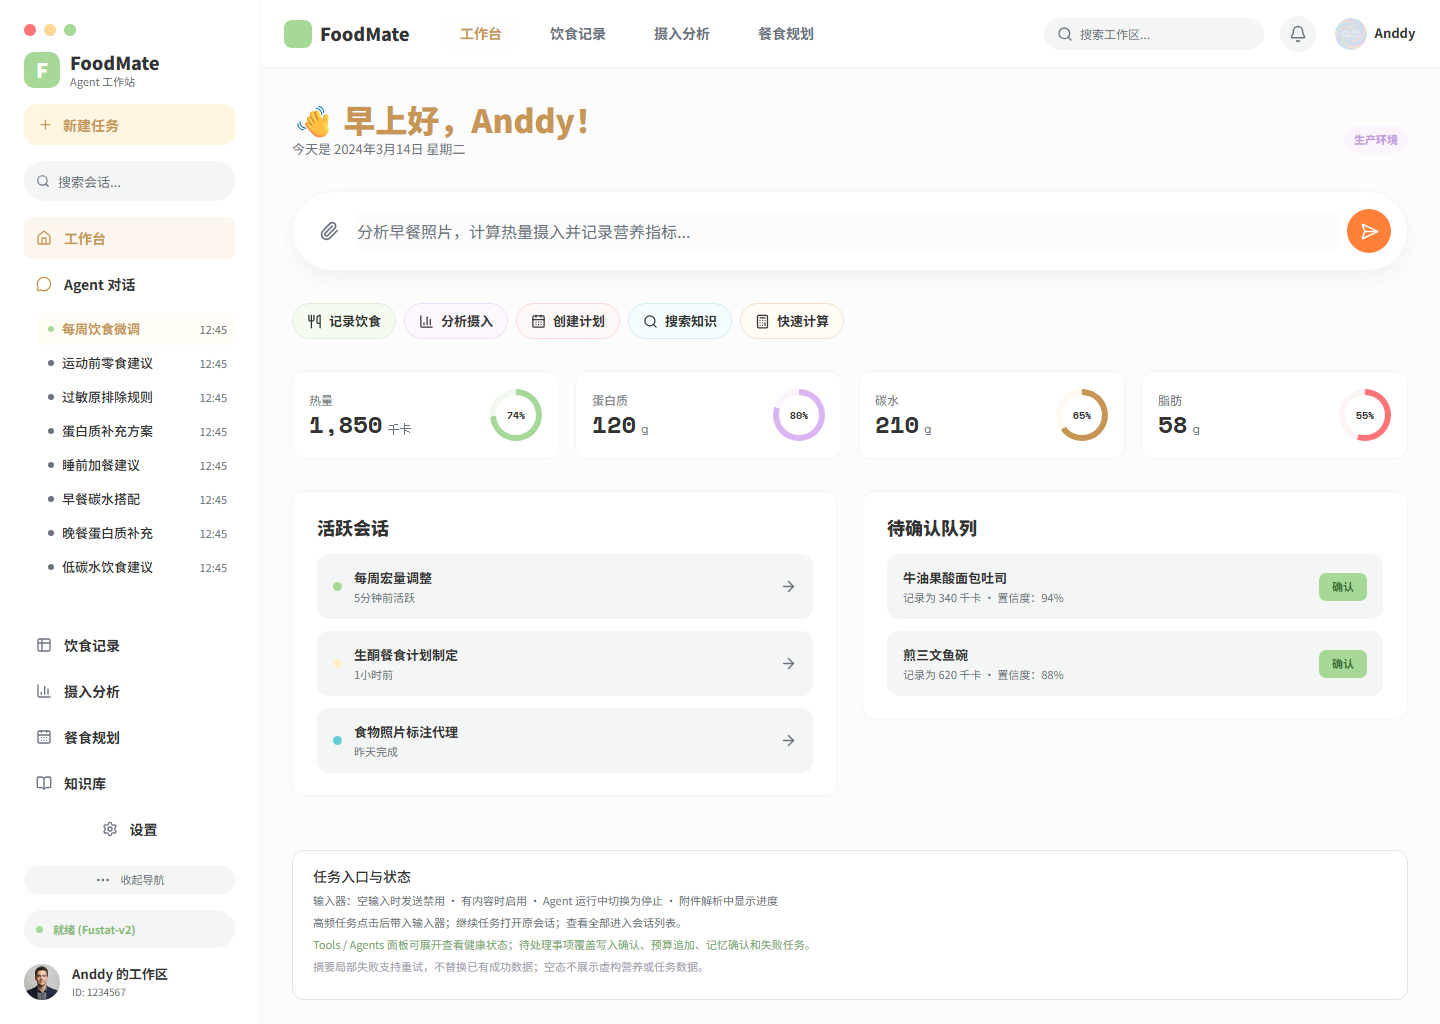
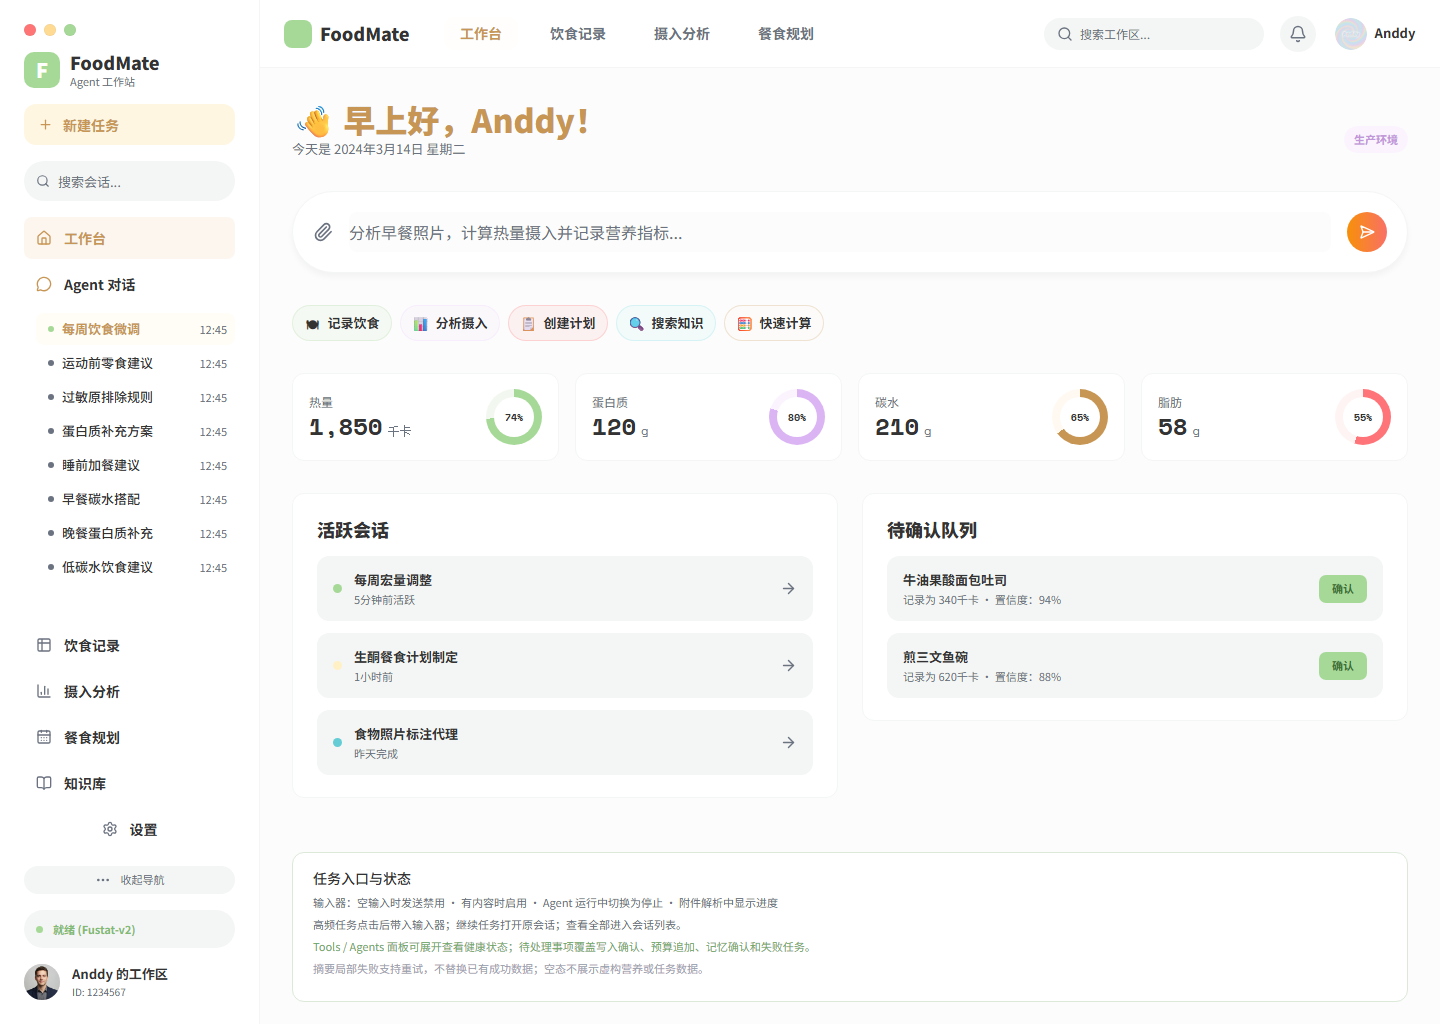
feat(ui): 收口工作区首页与 Agent 对话视觉

diff --git a/foodmate-ui/src/pages/HomePage/HomePage.tsx b/foodmate-ui/src/pages/HomePage/HomePage.tsx
@@ -33,9 +33,16 @@ const pendingItems = [
     id: 'beef',
     title: '牛油果酸面包吐司',
     detail: '记录为 340 千卡 · 置信度：94%',
+    figmaDetail: '记录为 340千卡 · 置信度：94%',
     prompt: '确认记录牛油果酸面包吐司',
   },
-  { id: 'fish', title: '煎三文鱼碗', detail: '记录为 620 千卡 · 置信度：88%', prompt: '确认记录煎三文鱼碗' },
+  {
+    id: 'fish',
+    title: '煎三文鱼碗',
+    detail: '记录为 620 千卡 · 置信度：88%',
+    figmaDetail: '记录为 620千卡 · 置信度：88%',
+    prompt: '确认记录煎三文鱼碗',
+  },
 ];
 
 const figmaSidebarSessions: SessionSummary[] = [
@@ -137,24 +144,27 @@ export function HomePage() {
 
   const quickActions = useMemo(
     () => [
-      { label: '记录饮食', prompt: recommendedPrompts[0], icon: Utensils, tone: 'green' },
+      { label: '记录饮食', prompt: recommendedPrompts[0], icon: Utensils, figmaIcon: '🍽', tone: 'green' },
       {
         label: '分析摄入',
         prompt: taskCards.find((task) => task.id === 'analysis')?.prompt ?? recommendedPrompts[2],
         icon: BarChart3,
+        figmaIcon: '📊',
         tone: 'purple',
       },
       {
         label: '创建计划',
         prompt: taskCards.find((task) => task.id === 'planning')?.prompt ?? recommendedPrompts[1],
         icon: CalendarDays,
+        figmaIcon: '📋',
         tone: 'red',
       },
-      { label: '搜索知识', prompt: recommendedPrompts[3], icon: Search, tone: 'blue' },
+      { label: '搜索知识', prompt: recommendedPrompts[3], icon: Search, figmaIcon: '🔍', tone: 'blue' },
       {
         label: '快速计算',
         prompt: taskCards.find((task) => task.id === 'calorie')?.prompt ?? '计算这份食物的热量',
         icon: Calculator,
+        figmaIcon: '🧮',
         tone: 'orange',
       },
     ],
@@ -183,7 +193,7 @@ export function HomePage() {
       showKnowledgeTopNav={!isFigmaFixture}
       sidebarFixture={isFigmaFixture ? { sessions: figmaSidebarSessions } : undefined}
     >
-      <div className={`${styles.page} fm-enter`}>
+      <div className={`${styles.page} ${isFigmaFixture ? styles.figmaHomePage : ''} fm-enter`}>
         <section className={styles.intro}>
           <div>
             <h1>👋 早上好，{isFigmaFixture ? 'Anddy' : currentUser.displayName}！</h1>
@@ -246,14 +256,20 @@ export function HomePage() {
         ) : (
           <>
             <section className={styles.quickActions} aria-label="快速操作">
-              {quickActions.map(({ icon: Icon, label, prompt: actionPrompt, tone }) => (
+              {quickActions.map(({ icon: Icon, figmaIcon, label, prompt: actionPrompt, tone }) => (
                 <Button
                   className={`${styles.quickButton} ${styles[`quick${tone[0].toUpperCase()}${tone.slice(1)}`]}`}
                   key={label}
                   variant="outline"
                   onClick={() => setPrompt(actionPrompt)}
                 >
-                  <Icon aria-hidden="true" />
+                  {isFigmaFixture ? (
+                    <span className={styles.quickEmoji} aria-hidden="true">
+                      {figmaIcon}
+                    </span>
+                  ) : (
+                    <Icon aria-hidden="true" />
+                  )}
                   <span>{label}</span>
                 </Button>
               ))}
@@ -317,7 +333,7 @@ export function HomePage() {
                       >
                         <span>
                           <strong>{item.title}</strong>
-                          <small>{confirmed ? '已提交确认' : item.detail}</small>
+                          <small>{confirmed ? '已提交确认' : isFigmaFixture ? item.figmaDetail : item.detail}</small>
                         </span>
                         <Button
                           className={styles.confirmButton}

diff --git a/foodmate-ui/src/pages/HomePage/HomePage.module.css b/foodmate-ui/src/pages/HomePage/HomePage.module.css
@@ -6,6 +6,93 @@
   background: var(--fm-bg);
 }
 
+/* Home Figma fixture 的内部尺寸只作用于设计稿复核，不改变真实首页的交互尺寸。 */
+.figmaHomePage .taskComposer {
+  grid-template-columns: 20px minmax(0, 1fr) 40px;
+  gap: 16px;
+  padding: 20px;
+  border-radius: 100px;
+  box-shadow: 0 4px 6px rgba(0, 0, 0, 0.04);
+}
+
+.figmaHomePage .attachmentButton {
+  width: 20px;
+  height: 20px;
+  min-width: 20px;
+  min-height: 20px;
+  padding: 0;
+}
+
+.figmaHomePage .sendButton {
+  width: 40px;
+  height: 40px;
+  min-width: 40px;
+  min-height: 40px;
+  background: linear-gradient(90deg, #f79009, #f97066);
+}
+
+.figmaHomePage .sendButton:hover,
+.figmaHomePage .sendButton:disabled {
+  background: linear-gradient(90deg, #f79009, #f97066);
+}
+
+.figmaHomePage .sendButton svg {
+  width: 16px;
+  height: 16px;
+}
+
+.figmaHomePage .quickButton {
+  width: 100px;
+  min-width: 100px;
+  justify-content: center;
+  padding-inline: 0;
+}
+
+.figmaHomePage .quickGreen {
+  border-color: rgba(166, 217, 151, 0.25);
+  background: rgba(166, 217, 151, 0.08);
+}
+
+.figmaHomePage .quickPurple {
+  border-color: rgba(236, 204, 255, 0.25);
+  background: rgba(236, 204, 255, 0.08);
+}
+
+.figmaHomePage .quickRed {
+  border-color: rgba(255, 117, 118, 0.25);
+  background: rgba(255, 117, 118, 0.08);
+}
+
+.figmaHomePage .quickBlue {
+  border-color: rgba(128, 224, 230, 0.25);
+  background: rgba(128, 224, 230, 0.08);
+}
+
+.figmaHomePage .quickOrange {
+  border-color: rgba(199, 150, 84, 0.25);
+  background: rgba(255, 246, 226, 0.08);
+}
+
+.quickEmoji {
+  display: inline-flex;
+  width: 16px;
+  height: 16px;
+  align-items: center;
+  justify-content: center;
+  font-family: var(--fm-font);
+  font-size: 14px;
+  line-height: 1;
+}
+
+.figmaHomePage .progress {
+  width: 56px;
+  height: 56px;
+}
+
+.figmaHomePage .progress::after {
+  inset: 8px;
+}
+
 .intro {
   display: flex;
   min-height: 59px;

diff --git a/foodmate-ui/src/pages/ChatPage/ChatPage.test.tsx b/foodmate-ui/src/pages/ChatPage/ChatPage.test.tsx
@@ -158,19 +158,12 @@ describe('ChatPage Figma 默认状态', () => {
     expect(composerStylesheet).toContain('background: var(--fm-fixture-composer-input-surface, var(--fm-bg-soft));');
   });
 
-  it('keeps the Figma default message action guidance under the assistant answer', () => {
+  it('renders the Figma message action guidance in the default canvas', () => {
     renderChatState('figma-v2');
 
     expect(screen.getByRole('region', { name: '消息操作' })).toBeInTheDocument();
-    expect(
-      screen.getByText((content) => content.includes('用户消息：编辑') && content.includes('重试')),
-    ).toBeInTheDocument();
-    expect(
-      screen.getByText((content) => content.includes('Agent 回答：复制') && content.includes('继续提问')),
-    ).toBeInTheDocument();
-    expect(
-      screen.getByText((content) => content.includes('右侧面板：运行') && content.includes('原始 JSON')),
-    ).toBeInTheDocument();
+    expect(screen.getByText(/用户消息：编辑/)).toBeInTheDocument();
+    expect(screen.getByText(/右侧面板：运行/)).toBeInTheDocument();
   });
 });
 

diff --git a/foodmate-ui/src/pages/ChatPage/ChatPage.module.css b/foodmate-ui/src/pages/ChatPage/ChatPage.module.css
@@ -859,6 +859,7 @@
   margin-left: 48px;
 }
 
+/* Figma 640:428 的默认画板包含消息操作说明，仅用于可复现的设计 fixture。 */
 .messageActions {
   display: flex;
   width: min(796px, 100%);
@@ -1165,25 +1166,6 @@
     min-height: 142px;
   }
 
-  .messageActions {
-    width: 100%;
-    height: auto;
-    min-height: 150px;
-    overflow: visible;
-  }
-
-  .messageActions p {
-    height: auto;
-    min-height: 18px;
-    flex: 0 0 auto;
-    white-space: normal;
-  }
-
-  .messageActions h2 {
-    height: auto;
-    flex: 0 0 auto;
-  }
-
   .cardWrap {
     width: calc(100% - 48px);
   }
@@ -1204,6 +1186,25 @@
   .inlineConfirmation {
     height: auto;
     min-height: 142px;
+  }
+
+  .messageActions {
+    width: 100%;
+    height: auto;
+    min-height: 150px;
+    overflow: visible;
+  }
+
+  .messageActions p {
+    height: auto;
+    min-height: 18px;
+    flex: 0 0 auto;
+    white-space: normal;
+  }
+
+  .messageActions h2 {
+    height: auto;
+    flex: 0 0 auto;
   }
 }
 

diff --git a/foodmate-ui/src/pages/HomePage/HomePage.test.tsx b/foodmate-ui/src/pages/HomePage/HomePage.test.tsx
@@ -50,6 +50,9 @@ describe('HomePage session cards', () => {
       'src',
       '/assets/figma/workspace/home-topbar-avatar.png',
     );
+    const quickAction = screen.getByRole('button', { name: '记录饮食' });
+    expect(within(quickAction).getByText('🍽')).toBeInTheDocument();
+    expect(quickAction.querySelector('svg')).not.toBeInTheDocument();
     expect(
       within(screen.getByRole('navigation', { name: '主导航' })).queryByRole('link', { name: '知识库' }),
     ).toBeNull();

diff --git a/foodmate-ui/src/pages/ChatPage/ChatPage.tsx b/foodmate-ui/src/pages/ChatPage/ChatPage.tsx
@@ -2080,6 +2080,7 @@ function MockChatPage() {
       ) : null}
       {agent.card.type === 'confirmation' ? null : null}
       {agent.card.type === 'error' ? <ErrorState message={agent.card.message} /> : null}
+      {/* Figma 640:428 的说明面板属于默认画板内容，只在 fixture 中复现。 */}
       {isFigmaFixture ? (
         <section className={styles.messageActions} aria-label="消息操作">
           <h2>消息操作</h2>

diff --git a/docxs/功能实现说明/前端已完成实现清单.md b/docxs/功能实现说明/前端已完成实现清单.md
@@ -4,7 +4,7 @@
 > 本文只记录真实代码、真实测试和实际浏览器检查结果，不把 Figma 目标稿、后端目标接口或未完成的全量迁移写成已完成。
 > “页面代码边界完成”表示该页面的代码、交互和本地验收已完成；不等同于真实后端接口、Figma 实际画板和整个 G 阶段全部完成。
 
-> 当前状态（2026-09-05）：页面代码和本地视觉/交互验收不等于完整生产完成。后端已实现 `food_logs` 明细创建/查询/编辑/删除/恢复、today/7d/30d 分析、60 条营养食材 seed 和 60 条官方 foodPortions 换算规则的 matched/pending 分支、餐食计划完整资源生命周期和 `meal_plan.save_plan` 确认；`food_log_writer` 的 create/update/delete/restore 及 rejected/failed/superseded、revision 冲突和幂等重放已通过真实 PostgreSQL HTTP/RocketMQ 各 11/11 跨进程回归。M2-1 公共知识库、M2-2 deterministic Tool/SQL 和 M2-3 管理核心切片已有业务证据；真实云服务、性能和故障矩阵仍后置。当前前端全量 Vitest 为 39/39 个测试文件、245/245 个用例通过，typecheck、build、lint 和 format:check 通过；Auth 页面已有提交 `bc72ae10`，本轮 Auth 状态视觉收口已完成，Workspace/Home 与 Agent Chat 的当前视觉收口已完成代码边界，相关 Figma 证据仍保持 `DIFF_REVIEW`。不得把本清单的页面完成项改写为生产级完成。
+> 当前状态（2026-09-05）：页面代码和本地视觉/交互验收不等于完整生产完成。后端已实现 `food_logs` 明细创建/查询/编辑/删除/恢复、today/7d/30d 分析、60 条营养食材 seed 和 60 条官方 foodPortions 换算规则的 matched/pending 分支、餐食计划完整资源生命周期和 `meal_plan.save_plan` 确认；`food_log_writer` 的 create/update/delete/restore 及 rejected/failed/superseded、revision 冲突和幂等重放已通过真实 PostgreSQL HTTP/RocketMQ 各 11/11 跨进程回归。M2-1 公共知识库、M2-2 deterministic Tool/SQL 和 M2-3 管理核心切片已有业务证据；真实云服务、性能和故障矩阵仍后置。当前前端全量 Vitest 为 39/39 个测试文件、247/247 个用例通过，typecheck、build、lint 和 format:check 通过；Auth 页面已有提交 `bc72ae10`，Workspace/Home 与 Agent Chat 的当前视觉收口已完成代码边界，最新 Figma 证据仍保持 `DIFF_REVIEW`。不得把本清单的页面完成项改写为生产级完成。
 
 ## 1. 文档信息
 
@@ -1804,3 +1804,15 @@
 - [x] 本批次集中执行 `npm run test`，结果为 `39/39` 个测试文件、`247/247` 个用例通过；`npm run typecheck`、`npm run build`、`npm run lint`、`npm run format:check`、`npm run qa:figma:validate` 和 `git diff --check` 均通过。
 - [x] 当前 Figma 验收结构结果为 `total=105`、`structuralPass=true`、`strictDprPass=true`、`errors=[]`；105 个画板均有自动比较输入，无 `UNMAPPED` 和 `SIZE_MISMATCH`。
 - [ ] 六个 Admin 目标画板仍存在非零自动 diff，当前结论保持 `DIFF_REVIEW`；本大点不把结构门禁、构建通过或截图存在替代像素级 `PASS`。shadcn 全量逐页迁移仍未完成，iconfont 实体包、CSS 映射、来源和许可证仍缺失，继续为 `BLOCKED`。
+
+## 209. 2026-09-05 Workspace Home 与 Agent Chat 当前 Figma 证据校正
+
+本大点在实时重新读取 Figma 节点 `640:256` 和 `640:428` 后，校正 Workspace Home 与 Agent Chat 的 fixture 内容及主验收参考图。Figma 文件保持只读；本次不吸收后端、Admin 或本地 SQL 并行改动。
+
+- [x] Home fixture 的快捷操作、输入框、发送按钮、指标进度环和待确认队列文案继续按 `640:256` 的颜色、尺寸和内容收口，调整均限制在 `state=figma-v2`。
+- [x] Chat fixture 已确认实时画板包含 `983:3 agent::message-actions` 说明面板，已恢复对应的面板结构、文案、边框、间距和移动端适配；真实模式消息、确认、预算和 SSE 逻辑不受影响。
+- [x] 主映射已将 `agent-chat-v2` 的 Figma PNG 切换为 `foodmate-ui/.qa/figma-pixel-acceptance/recaptured-figma/agent-chat-v2-figma-2026-09-05.png`，不再使用缺少说明面板的历史参考图；历史 PNG 保留，不覆盖或删除。
+- [x] Home 与 Chat 均已在 Chrome `152.0.7977.77`、`1440×1024`、DPR `1`、字体 `loaded` 和无横向溢出条件下重新采集；对应浏览器证据为 `dpr1-workspace-home-v2-browser-2026-09-05.png` 和 `dpr1-agent-chat-v2-browser-2026-09-05.png`。
+- [x] 同版本自动 diff：Workspace Home 为 `24.4219% / MAE 3.798675 / RMSE 19.280955 / maxChannelDelta 248`；Agent Chat 为 `11.7176% / MAE 2.906090 / RMSE 17.246569 / maxChannelDelta 211`。
+- [x] 本大点完成后集中执行 `npm run test`，结果为 `39/39` 个测试文件、`247/247` 个用例通过；`npm run typecheck`、`npm run build`、`npm run lint`、`npm run format:check`、`npm run qa:figma:validate` 和 `git diff --check` 均通过。
+- [ ] 两页自动 diff 仍为非零，结论继续保持 `DIFF_REVIEW`；105 张画板汇总仍为 `105 DIFF_REVIEW / 0 PASS / 0 UNMAPPED / 0 SIZE_MISMATCH`。这次校正不关闭 shadcn 全量逐页视觉迁移或 iconfont 阻塞，iconfont 继续为 `BLOCKED`。

diff --git a/docxs/功能实现说明/Figma前端像素级验收报告.md b/docxs/功能实现说明/Figma前端像素级验收报告.md
@@ -49,8 +49,8 @@
 
 | 页面/状态 | Figma 节点 | 尺寸 | 差异比例 | RMSE | 结论 |
 |---|---|---:|---:|---:|---|
-| Workspace Home | `640:256` | 1440×1024 | 37.58% | 17.11 | `DIFF_REVIEW` |
-| Agent Chat | `640:428` | 1440×1024 | 40.60% | 20.51 | `DIFF_REVIEW` |
+| Workspace Home | `640:256` | 1440×1024 | 24.4219% | 19.28 | `DIFF_REVIEW` |
+| Agent Chat | `640:428` | 1440×1024 | 11.7176% | 17.25 | `DIFF_REVIEW` |
 | Diet Records | `640:588` | 1440×1024 | 37.94% | 17.38 | `DIFF_REVIEW` |
 | Intake Analysis | `640:773` | 1440×1024 | 28.07% | 18.50 | `DIFF_REVIEW` |
 | Meal Planning | `640:901` | 1440×1024 | 23.83% | 16.80 | `DIFF_REVIEW` |
@@ -1994,3 +1994,18 @@ Figma Design 页共有 105 张顶层画板。本轮已为 105 张画板建立独
 - [x] `figma-105-mapping.json`、`figma-105-diff-results.json` 已同步本批次主证据。`npm run qa:figma:validate` 返回 `structuralPass=true`、`strictDprPass=true`、`errors=[]`，全量汇总为 `105 DIFF_REVIEW / 0 PASS / 0 UNMAPPED / 0 SIZE_MISMATCH`。
 - [x] 本批次完成后集中执行 `npm run test`（`39/39` 文件、`247/247` 用例）、`npm run typecheck`、`npm run build`、`npm run lint`、`npm run format:check` 和 `git diff --check`，均通过。
 - [ ] 六个目标画板的自动 diff 均非零，人工复核结论继续保持 `DIFF_REVIEW`；本批次不宣称 Admin 或 105 张画板达到像素级 `PASS`。shadcn 全量逐页迁移尚未完成，iconfont 实体包、CSS 映射、来源和许可证仍缺失，继续保持 `BLOCKED`。
+
+## 23. 2026-09-05 Workspace Home 与 Agent Chat 当前 Figma 证据校正
+
+本节记录实时重新读取 Figma 节点 `640:256` 和 `640:428` 后的 Workspace Home 与 Agent Chat 当前证据。Figma 文件保持只读；旧版 PNG 保留为历史记录，不替代当前主映射。
+
+| 画板 | Figma 节点 | Figma PNG | 浏览器 PNG | 视口 / DPR | 差异比例 | MAE | RMSE | 最大通道差异 | 结论 |
+|---|---|---|---|---:|---:|---:|---:|---:|---|
+| Workspace Home | `640:256` | `recaptured-figma/workspace-home-v2-figma-2026-09-05.png` | `recaptured/dpr1-workspace-home-v2-browser-2026-09-05.png` | `1440×1024 / 1` | `24.4219%` | `3.798675` | `19.280955` | `248` | `DIFF_REVIEW` |
+| Agent Chat | `640:428` | `recaptured-figma/agent-chat-v2-figma-2026-09-05.png` | `recaptured/dpr1-agent-chat-v2-browser-2026-09-05.png` | `1440×1024 / 1` | `11.7176%` | `2.906090` | `17.246569` | `211` | `DIFF_REVIEW` |
+
+- [x] Home fixture 的快捷操作、输入框、发送按钮、指标进度环和待确认队列文案继续按实时 Figma 颜色、尺寸和内容收口；相关 CSS 仅在 `state=figma-v2` 作用域生效。
+- [x] 实时 Figma `640:428` 明确包含 `983:3 agent::message-actions` 说明面板；Chat fixture 已恢复面板结构、文案、边框、间距和移动端适配，真实模式不渲染该设计说明面板。
+- [x] 两页浏览器证据均由 Chrome `152.0.7977.77` 在 `1440×1024`、DPR `1`、字体 `loaded` 和无页面横向溢出条件下采集；`figma-105-mapping.json` 与 `figma-105-diff-results.json` 已同步同版本路径。
+- [x] 全量结构校验仍为 `total=105`、`structuralPass=true`、`strictDprPass=true`、`errors=[]`；全量自动比较输入为 `105/105`。
+- [ ] 两页仍存在非零像素差异，不能将局部视觉收口、几何检查或构建通过替代像素级 `PASS`；全量汇总保持 `105 DIFF_REVIEW / 0 PASS / 0 UNMAPPED / 0 SIZE_MISMATCH`。shadcn 全量逐页视觉迁移尚未完成，iconfont 继续为 `BLOCKED`。
